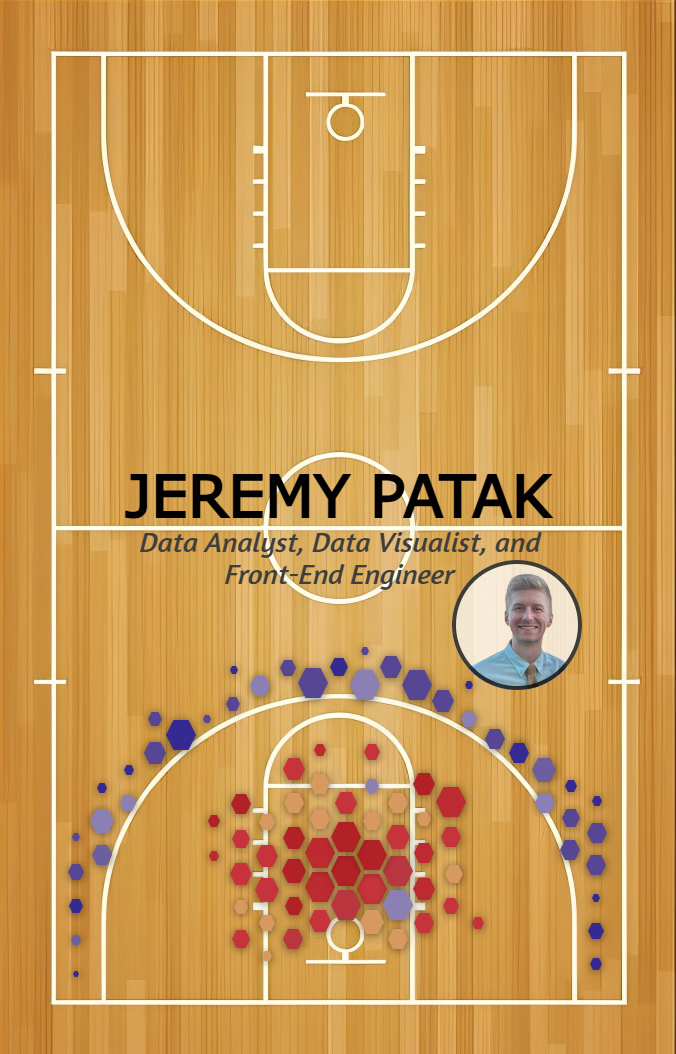
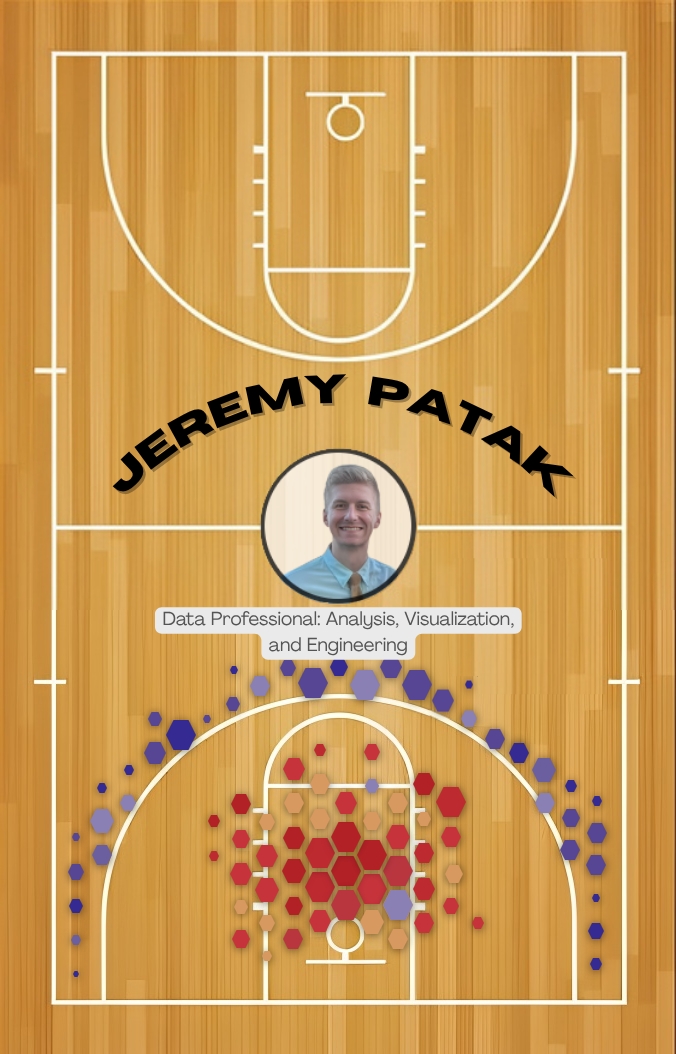
remove css from html file; change header background on mobile

diff --git a/_includes/css/agency.css b/_includes/css/agency.css
@@ -298,6 +298,12 @@ fieldset[disabled] .btn-xl.active {
   }
 }
 
+@media (orientation: portrait) {
+  #sphere-container {
+    margin-top: -43px !important;
+  }
+}
+
 @media (max-width: 767px) {
   .navbar-header {
     display: flex;
@@ -483,6 +489,42 @@ section h3.section-subheading {
   display: inline-block;
   text-decoration: none;
   white-space: nowrap;
+}
+
+@media (max-width: 768px) {
+  .tab-pane .skill_chunk {
+    padding-bottom: 30px;
+    margin-bottom: 30px;
+    border-bottom: 2px solid rgba(0,0,0,0.08)
+  }
+  
+  .tab-pane .skill_chunk:last-child {
+    border-bottom: none;
+    margin-bottom: 0;
+    padding-bottom: 0
+  }
+}
+    
+.exp-img {
+  height: 100px;
+  width: auto;
+  object-fit: contain
+}
+    
+@media (max-width: 768px) {
+  .exp-img {
+    height: 85px;
+    width: auto;
+    object-fit: contain
+  }
+}
+    
+.icons img {
+  margin-right: 10px
+}
+    
+.icons img:last-child {
+  margin-right: 0
 }
 
 @media (max-width: 450px) {

diff --git a/_includes/aboutme.html b/_includes/aboutme.html
@@ -1,41 +1,7 @@
 <!-- About Me Section -->
 <section id="aboutme">
   <style>
-    @media (max-width: 768px) {
-      .tab-pane .skill_chunk {
-        padding-bottom: 30px;
-        margin-bottom: 30px;
-        border-bottom: 2px solid rgba(0,0,0,0.08);
-      }
-
-      .tab-pane .skill_chunk:last-child {
-        border-bottom: none;
-        margin-bottom: 0;
-        padding-bottom: 0;
-      }
-    }
     
-    .exp-img {
-      height: 100px;
-      width: auto;
-      object-fit: contain
-    }
-    
-    @media (max-width: 768px) {
-      .exp-img {
-        height: 85px;
-        width: auto;
-        object-fit: contain
-      }
-    }
-    
-    .icons img {
-      margin-right: 10px
-    }
-    
-    .icons img:last-child {
-      margin-right: 0
-    }
   </style>
     <div class="container">
         <div class="row">
